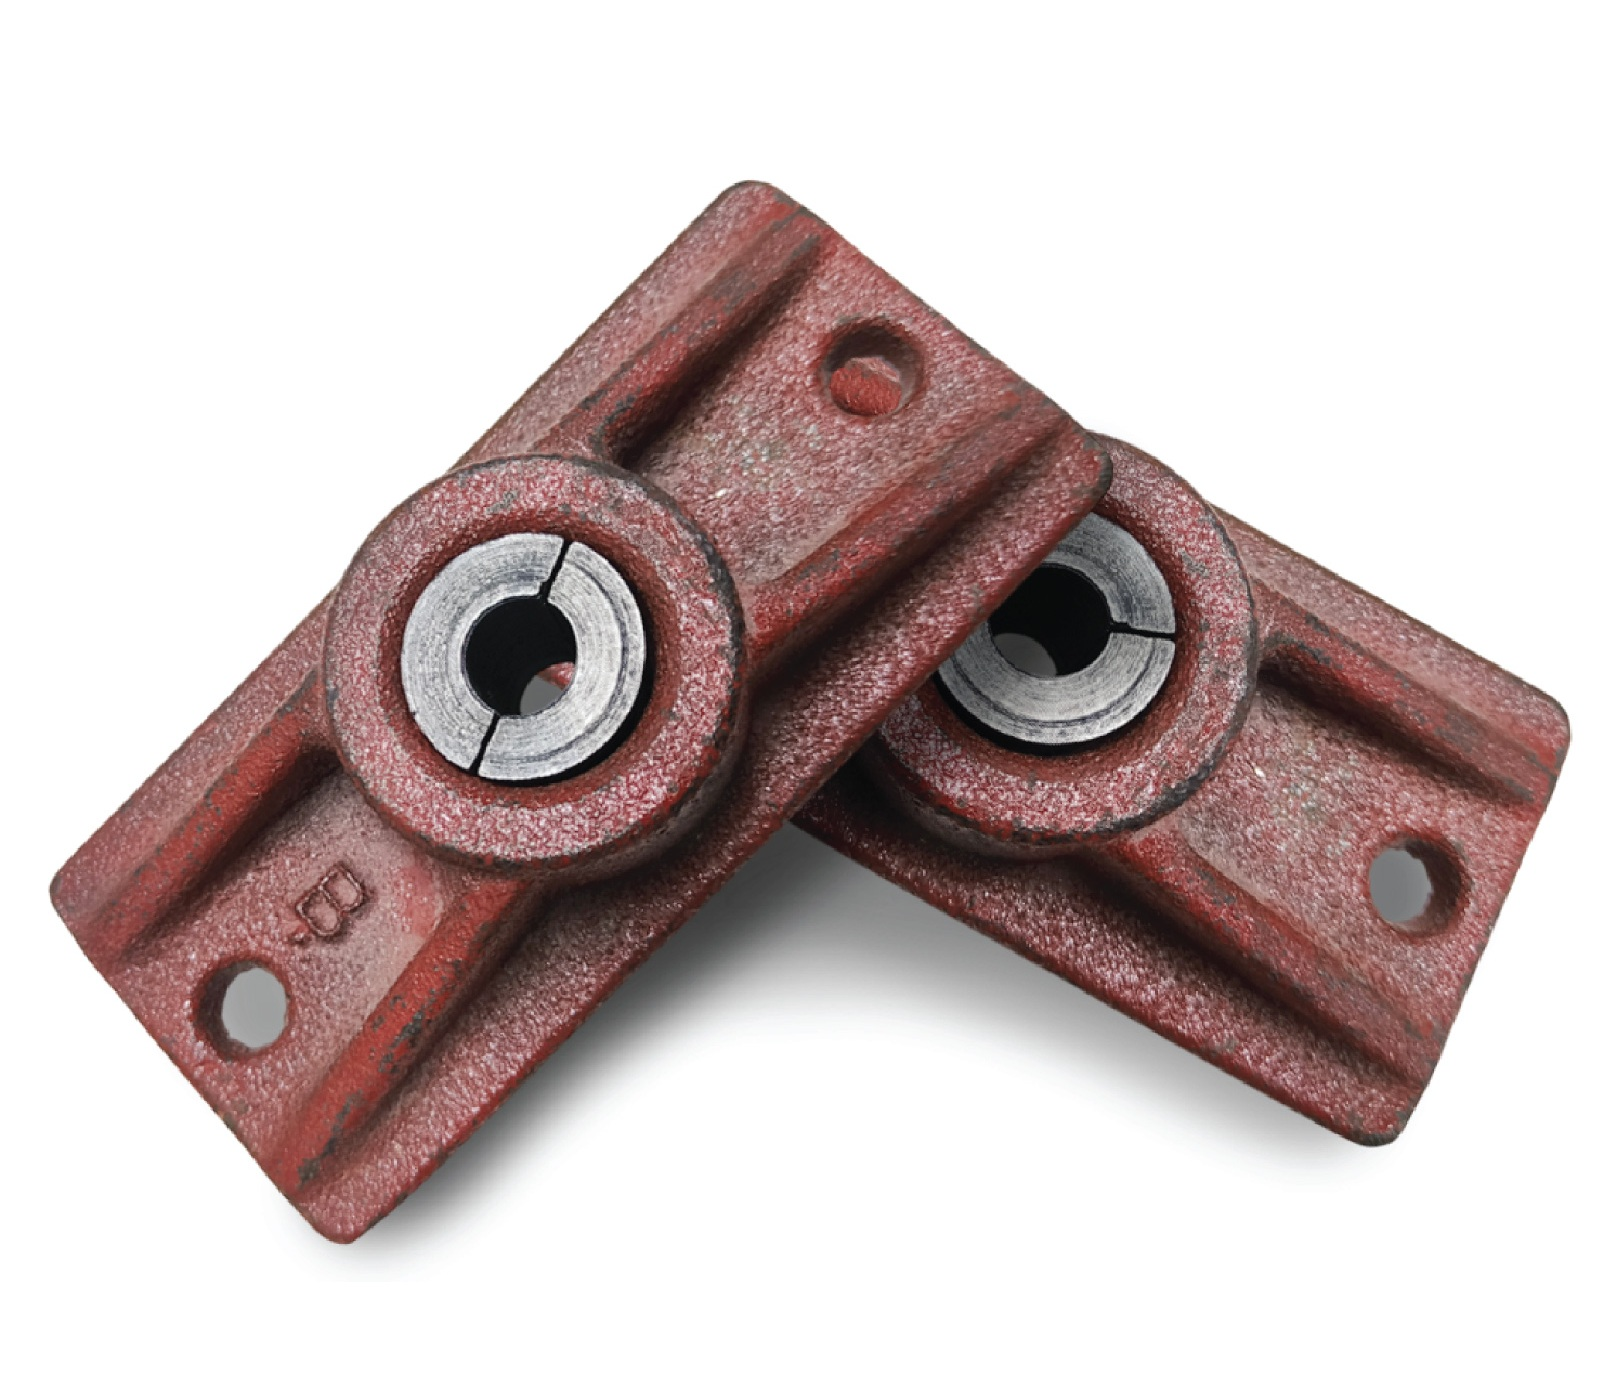
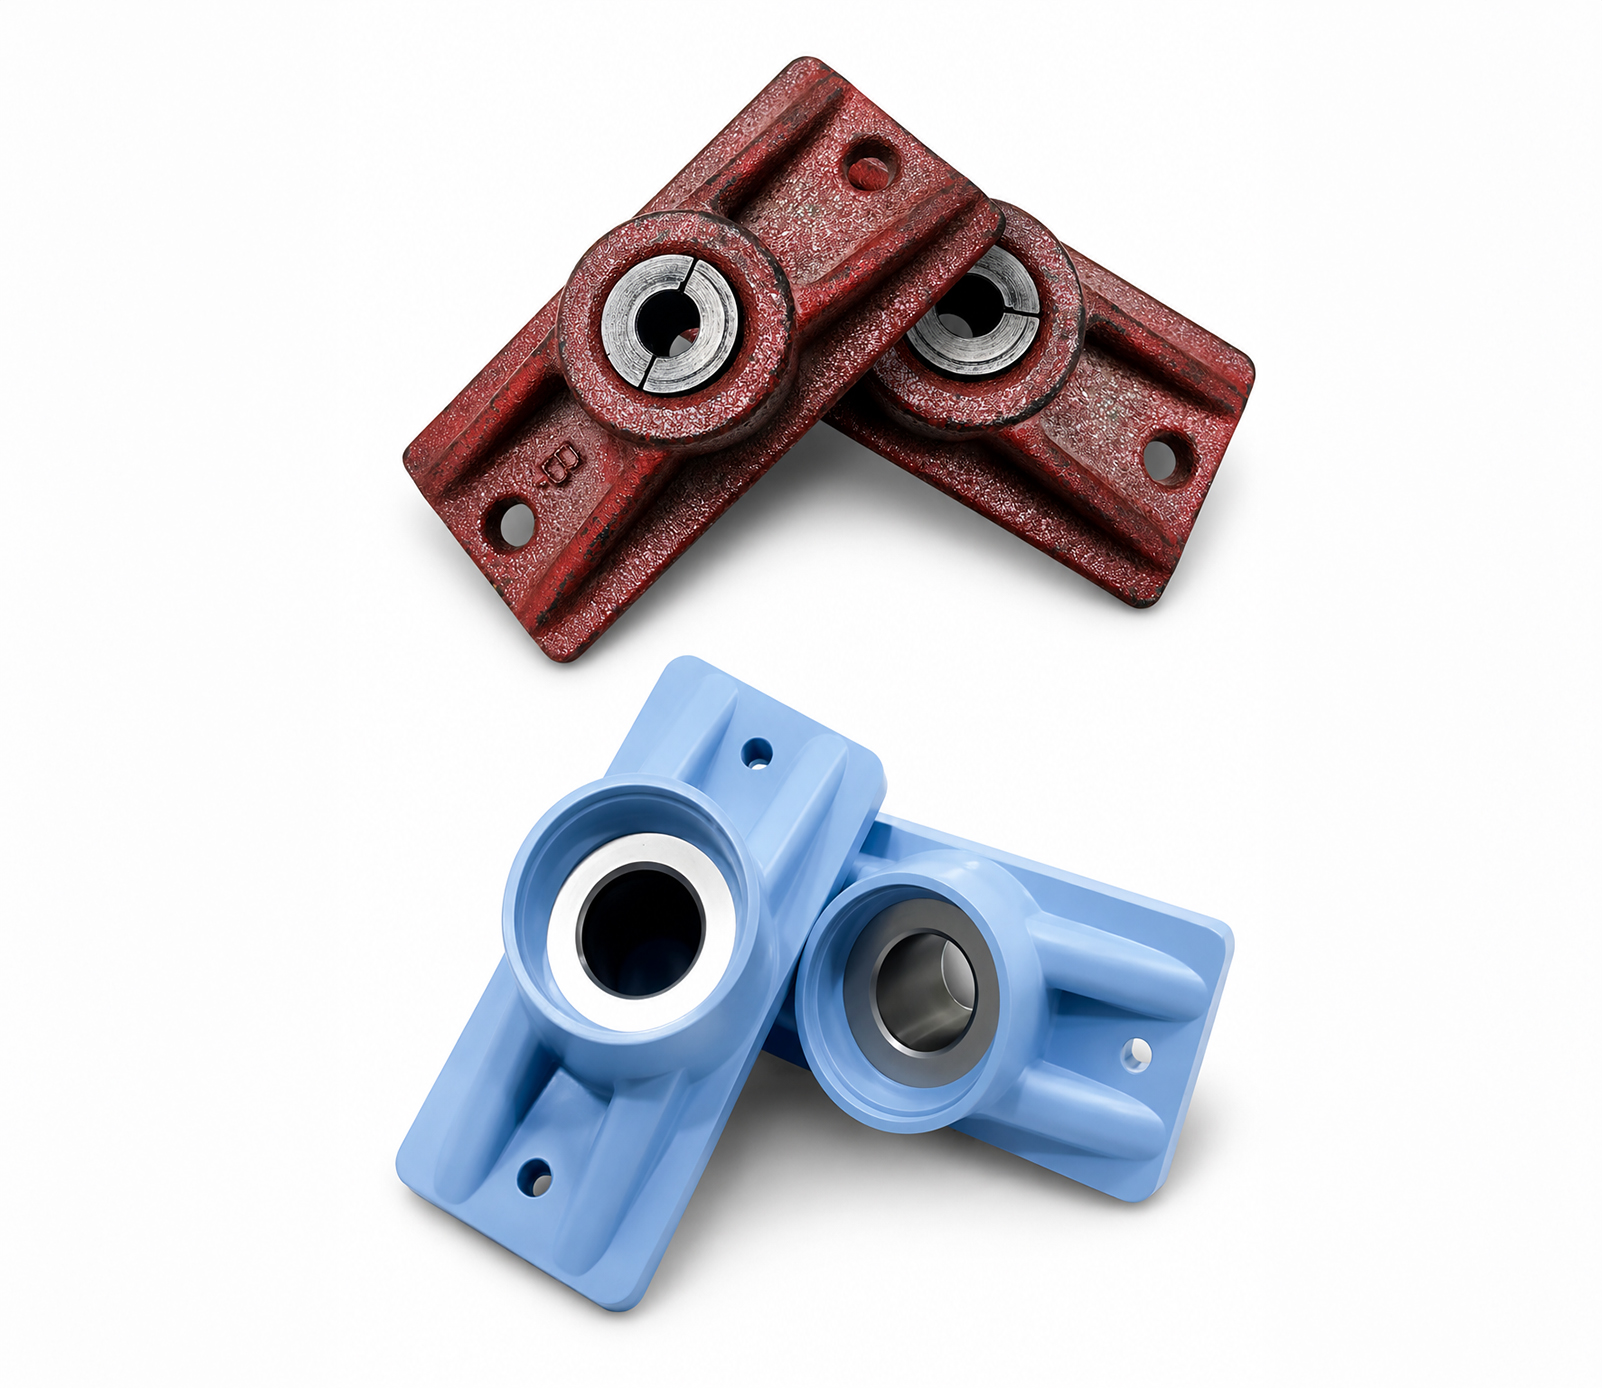
Update contact us page and hero component

diff --git a/app/contact-us/page.jsx b/app/contact-us/page.jsx
@@ -343,7 +343,7 @@ export default function ContactPage() {
                 <div className="flex flex-col gap-6">
                   <ContactItem icon={<Mail size={22} />} title="Email Support" value="unifiedpts@gmail.com" />
                   <ContactItem icon={<Phone size={22} />} title="Contact Number" value="+91 95740 76889" />
-                  <ContactItem icon={<Building size={22} />} title="Head Office" value="C-1804-1807, Kailash Business Park, Vikhroli West, Mumbai - 400079" isHeadOffice={true} />
+                  <ContactItem icon={<Building size={22} />} title="Head Office - Mumbai" value="C-1804-1807, Kailash Business Park, Vikhroli West, Mumbai - 400079" isHeadOffice={true} />
 
                   {/* Head Office Map Embed */}
                   <div className="mt-4 w-full h-[220px] min-[2500px]:h-[400px] rounded-2xl overflow-hidden shadow-md border-2 border-[#0095aa]/10 transition-all hover:border-[#0095aa]/30">

diff --git a/components/Hero.jsx b/components/Hero.jsx
@@ -93,7 +93,7 @@ const Hero = () => {
   }, [hasAnimated]);
 
   const animateNumbers = () => {
-    const targets = { years: 8, projects: 600, cities: 84, engineers: 171 };
+    const targets = { years: 8, projects: 600, cities: 84, engineers: 75 };
     const duration = 2500;
     let start = null;
 
@@ -218,7 +218,7 @@ const Hero = () => {
                 [animatedNumbers.years, "Years of Experience"],
                 [animatedNumbers.projects, "Projects Completed"],
                 [animatedNumbers.cities, "Cities Covered"],
-                [animatedNumbers.engineers, "Engineers & Architects"],
+                [animatedNumbers.engineers, "Engineers & Experts"],
               ].map(([num, label], i) => (
                 <div
                   key={i}
